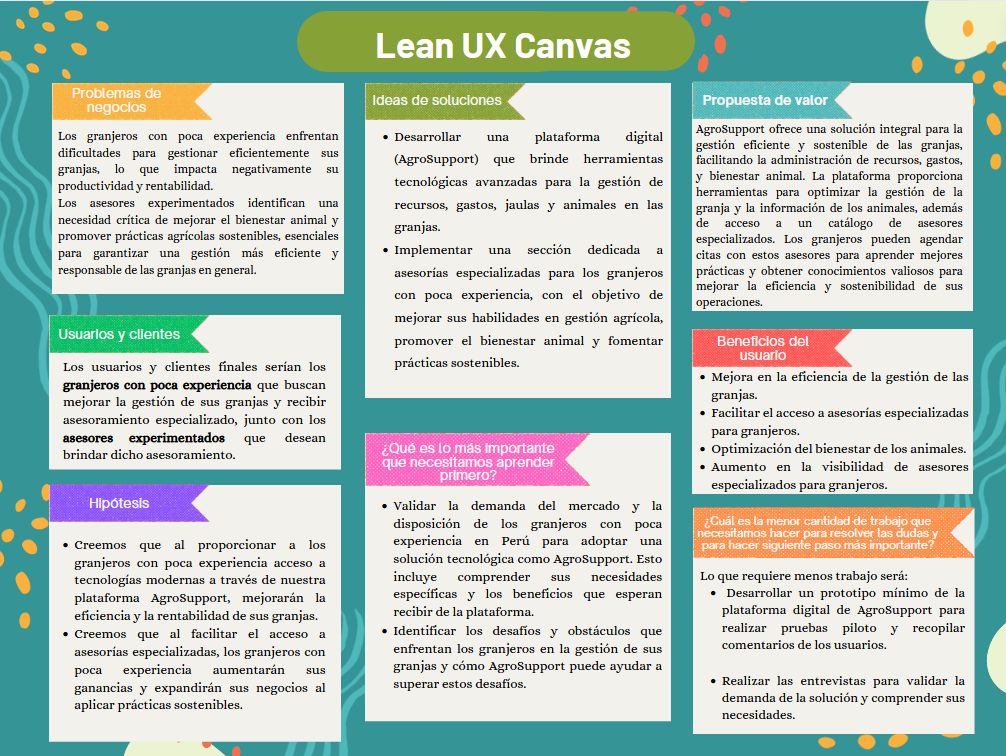
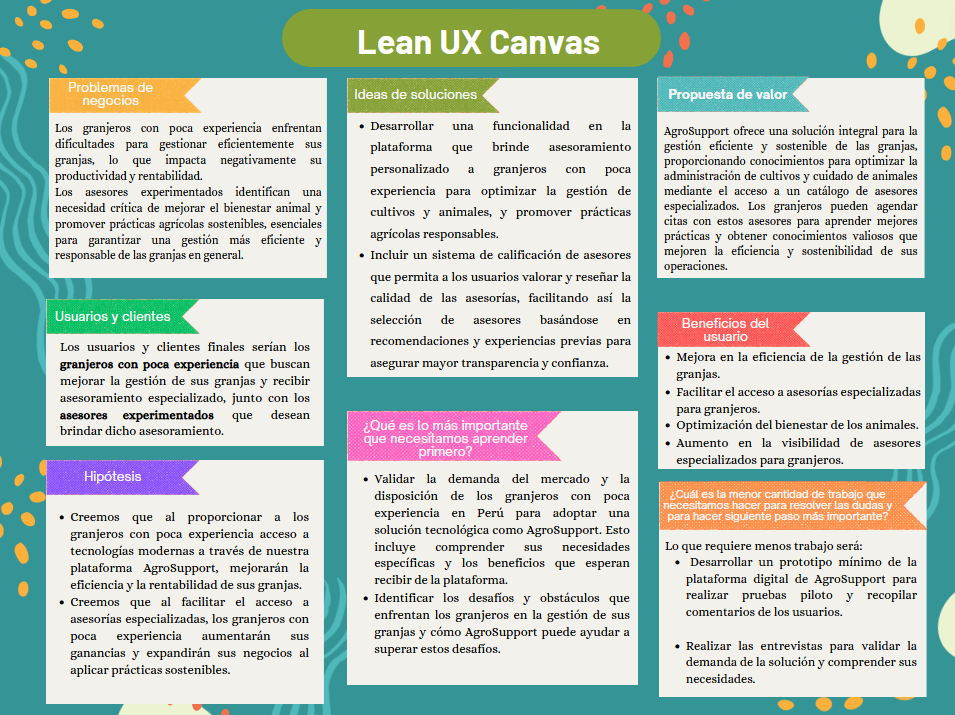
docs: problem statement, lean ux canvas and hypothesis statements section updated

diff --git a/README.md b/README.md
@@ -452,10 +452,10 @@ Según un informe realizado (Ames, 2022), se ha identificado que el sector agrop
 |¿Podría AgroSupport ayudar a los granjeros en Perú a mejorar su rentabilidad mediante una gestión más eficiente de sus granjas?|
 
 **Problem Statement 3**
-|Nuestro producto tiene como objetivo facilitar el acceso a mercados y mejorar la comercialización de los productos en Perú.|
+|Nuestro producto tiene como objetivo proporcionar asesoramiento especializado a los granjeros en Perú.|
 |:--|
-|Hemos observado que muchos granjeros en Perú enfrentan dificultades para acceder a mercados y comercializar sus productos de manera efectiva.|
-|¿Podría AgroSupport ayudar a los granjeros en Perú a acceder a mercados y mejorar la comercialización de sus productos?|
+|Hemos observado que muchos granjeros en Perú enfrentan desafíos para obtener asesoramiento adecuado y especializado en la gestión de sus granjas.|
+|¿Cómo podría AgroSupport ayudar a los granjeros en Perú a acceder a asesorías especializadas para mejorar la gestión de sus granjas?|
 
 #### 1.2.2.2. Lean UX Assumptions.
 
@@ -515,13 +515,6 @@ Presentación de otros supuestos:
 | Cuando proporcionemos orientación y recursos específicos sobre prácticas sostenibles a través de AgroSupport y evaluemos la adopción de estas prácticas, viendo un aumento del 15% en el uso de prácticas sostenibles dentro de los primeros 6 meses de lanzamiento. |
 
 **Hypothesis Statement 3**
-
-| Creemos que al facilitar el acceso a mercados y mejorar la comercialización de los productos agricolas en Perú a través de AgroSupport, los granjeros aumentarán sus ventas y expandirán sus negocios. |
-| - |
-| Sabremos que esto es cierto… |
-| Cuando se establezcan conexiones efectivas con compradores y mercados a través de la plataforma, y se observe un aumento del 25% en las ventas de los granjeros en los primeros 6 meses de uso de la aplicación. |
-
-**Hypothesis Statement 4**
 
 | Creemos que al incentivar a los asesores con una nueva estructura de comisiones en AgroSupport, se incrementará el número de asesores activos y su satisfacción. |
 | - |
